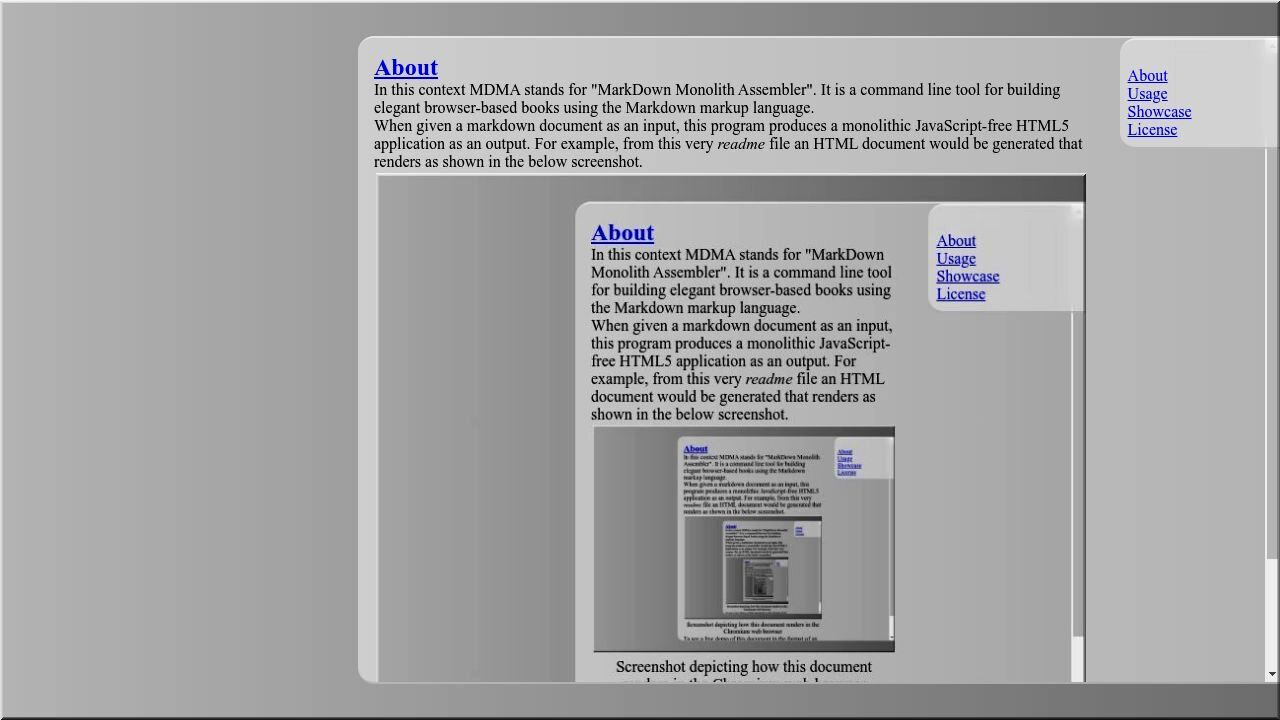
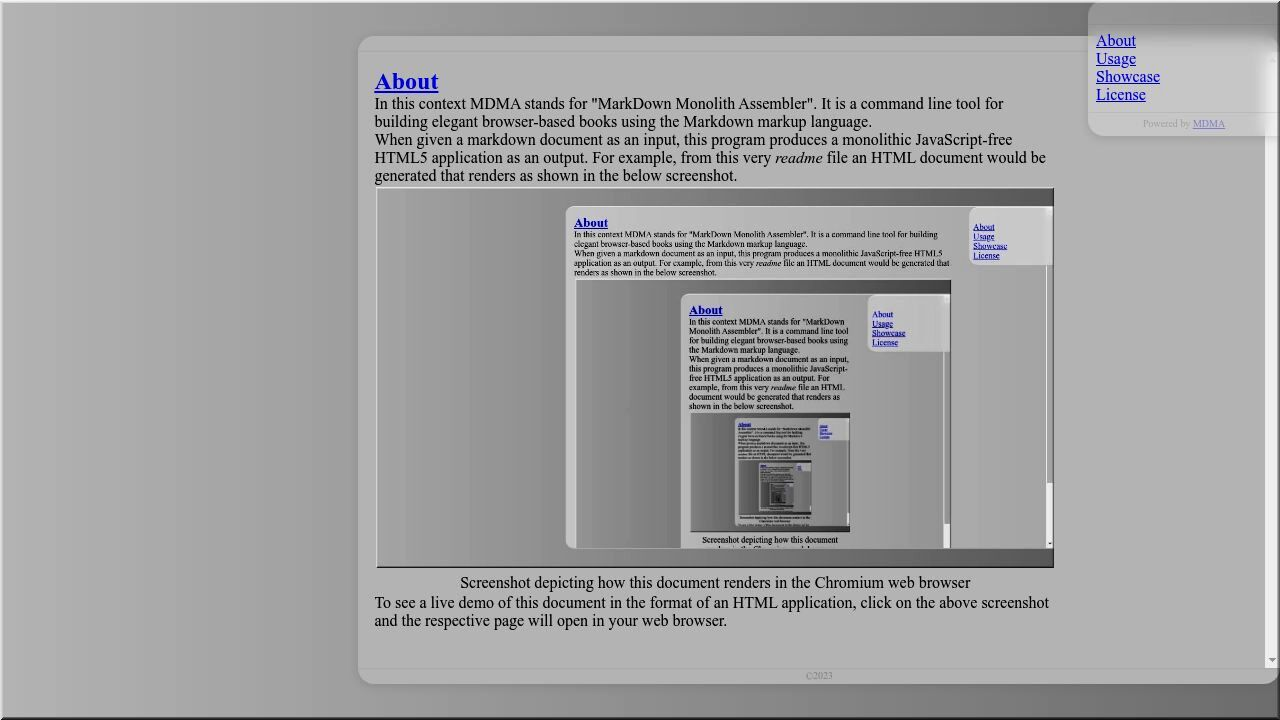
Improved formatting of the default framework. Updated the showcase and the screenshot.

Changed region(s): [[0.2812, 0.0, 1.0, 0.9472], [0.8125, 0.8861, 0.875, 0.9472], [0.9688, 0.9167, 1.0, 0.9472]]

diff --git a/framework.html b/framework.html
@@ -22,8 +22,17 @@
                 200vh - var(--content-padding) - 100vw
             ), 100vh
         );
-        --menu-width: 10rem;
+        --menu-width: 12rem;
         --menu-burger-width: 2rem;
+        --menu-burger-height: 1.5rem;
+        --menu-header-height: var(--menu-burger-height);
+        --menu-footer-height: var(--menu-header-height);
+        --menu-agenda-max-height: calc(
+            100vh - var(--menu-header-height) - var(--menu-footer-height)
+        );
+        --menu-transition-speed: 0.2s;
+        --md-page-max-width: 980px;
+        --border-radius: 1rem;
     }
 
     *, ::before, ::after {
@@ -36,6 +45,7 @@
         height:100%;
         width:100%;
         overflow: hidden;
+        white-space: nowrap;
     }
 
     .container {
@@ -44,7 +54,6 @@
         background-size: cover;
         background-position: center center;
         text-align: right;
-        white-space: nowrap;
         display: grid;
         place-items: center end;
     }
@@ -55,7 +64,7 @@
         left: 0;
         width: var(--MDMA-PAGE-LOADED);
         height: max(0.5vh, 2px);
-        background-color: rgba(0,255,0,0.5);
+        background-color: rgba(20,109,148,0.5);
         opacity: var(--MDMA-LOADER-OPACITY);
         pointer-events: none;
         transition: opacity 0.5s ease, width 0.25s ease;
@@ -65,8 +74,8 @@
     .content {
         position: relative;
         display: inline-block;
-        overflow: hidden;
-        width: var(--content-width);
+        overflow: visible;
+        width: 100%;
         height: var(--content-height);
         vertical-align: middle;
     }
@@ -91,28 +100,58 @@
         display: inline-block;
         top: 0;
         left: 0;
+        width: 100vw;
+        height: 100vh;
+    }
+
+    .md-page {
+        position: absolute;
+        top: 0;
+        left: calc(100% - var(--content-width));
         width: var(--content-width);
-        height: var(--content-height);
+        height: 100%;
+        max-width: var(--md-page-max-width);
+        border-radius: var(--border-radius);
+        pointer-events: none;
+        box-shadow: rgba(99, 99, 99, 0.2) 0px 2px 8px 0px;
+        overflow: hidden;
+        background-color: silver;
+    }
+
+    .md-page > div:first-child {
+        position: absolute;
+        top: var(--border-radius);
+        left: 0;
+        right: 0;
+        bottom: var(--border-radius);
+        box-shadow: rgba(99, 99, 99, 0.1) 0px 0px 1px 1px;
+    }
+
+    .md-page > div:nth-child(2) {
+        position: absolute;
+        left: 0;
+        right: 0;
+        bottom: 0;
+        height: var(--border-radius);
+        line-height: var(--border-radius);
+        text-align: center;
+        font-size: x-small;
+        color: rgba(99, 99, 99, 0.5);
     }
 
     #MDMA-CONTENT {
         position: absolute;
-        top: 0;
+        top: var(--border-radius);
         left: 0;
         right: 0;
-        bottom: 0;
+        bottom: var(--border-radius);
         width: 100%;
-        height: 100%;
         text-align: left;
-        scroll-behavior: smooth;
         overflow-y: scroll;
         overflow-x: hidden;
         z-index: 0;
-        background: rgba(255, 255, 255, 0.5);
-        border-top-left-radius: 1rem;
-        border-bottom-left-radius: 1rem;
-        border-top: 0.125rem outset rgba(255, 255, 255, 0.5);
-        border-bottom: 0.125rem outset rgba(255, 255, 255, 0.5);
+        background-color: transparent;
+        padding-left: calc(100% - var(--content-width));
     }
 
     #burger {
@@ -135,35 +174,77 @@
         z-index: 1;
         pointer-events: none;
         overflow: visible;
-        transition: width 0.1s linear;
+        transition: width var(--menu-transition-speed) linear;
     }
 
     .options {
         position: absolute;
-        top: 0.125rem;
+        top: 0;
         right: 0;
         width: 100%;
         text-align: left;
         pointer-events: auto;
-        overflow-y: auto;
-        overflow-x: hidden;
-        max-height: calc(100% - 0.25rem);
-        background: rgba(255, 255, 255, 0.4);
+        overflow: hidden;
+        max-height: 100%;
+        background-color: transparent;
+        box-shadow: rgba(99, 99, 99, 0.2) 0px 2px 8px 0px;
         backdrop-filter: blur(8px);
-        border-top-left-radius: 1rem;
-        border-bottom-left-radius: 1rem;
-        border-top: 0.125rem outset rgba(255, 255, 255, 0.5);
-        border-bottom: 0.125rem outset rgba(255, 255, 255, 0.5);
+        border-top-left-radius: var(--border-radius);
+        border-bottom-left-radius: var(--border-radius);
+    }
+
+    .options-bg {
+        position: absolute;
+        top: 0;
+        left: 0;
+        right: 0;
+        bottom: 0;
+        background-color: white;
+        z-index: -1;
+        opacity: 0.25;
+    }
+
+    .menu-header, .menu-footer {
+        height: var(--menu-header-height);
+        line-height: var(--menu-header-height);
+    }
+
+    .menu-footer {
+        height: var(--menu-footer-height);
+        line-height: var(--menu-footer-height);
+        font-size: x-small;
+        text-align: center;
+        width: var(--menu-width);
+        color: rgba(99, 99, 99, 0.3);
+    }
+
+    .menu-footer a {
+        opacity: 0.3;
+    }
+
+    .menu-header, .menu-footer {
+        overflow: hidden;
+        box-shadow: rgba(99, 99, 99, 0.1) 0px 0.5px 1px 0px;
+    }
+
+    #MDMA-AGENDA {
         padding: 0.5rem;
         padding-right: 0;
+        overflow-x: hidden;
+        overflow-y: auto;
+        max-height: var(--menu-agenda-max-height);
+        box-shadow: rgba(99, 99, 99, 0.1) 0px 0.5px 1px 0px;
     }
 
     #MDMA-AGENDA a {
-    display: block;
+        display: block;
+        text-overflow: ellipsis;
+        overflow: hidden;
     }
 
     #MDMA-AGENDA div > div {
         padding-left: 0.5rem;
+        transition: padding-left var(--menu-transition-speed) ease;
     }
 
     .MDMA-VIDEO-CONTAINER {
@@ -189,6 +270,7 @@
         padding: 1rem;
         padding-right: var(--menu-burger-width);
         white-space: normal;
+        max-width: var(--md-page-max-width);
     }
 
     .tab img {
@@ -205,7 +287,7 @@
         display: block;
     }
 
-    .menu > .options a + div {
+    #MDMA-AGENDA a + div {
         max-height: 100vh;
         transition: max-height 0.3s ease-in;
         overflow: hidden;
@@ -221,7 +303,7 @@
     label[for="burger"]::after {
         content: "✖";
         opacity: 0;
-        transition: opacity 0.1s linear;
+        transition: opacity var(--menu-transition-speed) linear;
     }
 
     @container (min-width: 1px) {
@@ -231,12 +313,16 @@
             cursor: pointer;
         }
 
-        :not(#burger:checked) + .menu > .options > label[for="burger"]::after {
+        :not(#burger:checked) + .menu label[for="burger"]::after {
             content: "☰";
         }
 
         :not(#burger:checked) + .menu{
             width: min(var(--menu-burger-width), var(--menu-width));
+        }
+
+        :not(#burger:checked) + .menu #MDMA-AGENDA div > div {
+            padding-left: 0rem;
         }
 
         .tab {
@@ -270,10 +356,19 @@
     <div id="MDMA-LOADER">
     </div>
 
-    <div class="container">
-      <div class="content">
-        <div id="width-guard">
-          <div>
+    <div id="width-guard">
+      <div>
+        <div class="container">
+          <div class="content">
+            <div class="md-page">
+              <div>
+              </div>
+
+              <div>
+                ©<span id="MDMA-YEAR">2023</span>
+              </div>
+            </div>
+
             <div id="MDMA-CONTENT">
               <article class="tab">
                 <h1>
@@ -465,6 +560,14 @@ Markdown dialect options:
                       manipulation
                     </p>
                   </li>
+
+                  <li>
+                    <p>
+                      <a href="https://curl.se/" target=
+                      "_blank">curl</a> — Command line tool and
+                      library for transferring data with URLs
+                    </p>
+                  </li>
                 </ul>
               </article>
 
@@ -519,29 +622,38 @@ Markdown dialect options:
                 </p>
               </article>
             </div>
-            <input id="burger" name="burger" type="checkbox" value=
-            "value">
-            <div class="menu">
-              <div class="options">
-                <label for="burger"></label>
-                <div id="MDMA-AGENDA">
-                  <div>
-                    <a href="#About" target=
-                    "_self">About</a><a href="#Usage" target=
-                    "_self">Usage</a>
-                    <div>
-                      <a href="#Synopsis" target=
-                      "_self">Synopsis</a><a href=
-                      "#Build-Instructions" target="_self">Build
-                      Instructions</a><a href="#Dependencies"
-                      target="_self">Dependencies</a>
-                    </div>
-                    <a href="#Showcase" target=
-                    "_self">Showcase</a><a href="#License" target=
-                    "_self">License</a>
-                  </div>
+          </div>
+        </div>
+        <input id="burger" name="burger" type="checkbox" value=
+        "value">
+        <div class="menu">
+          <div class="options">
+            <div class="options-bg">
+            </div>
+
+            <div class="menu-header">
+              <label for="burger"></label>
+            </div>
+
+            <div id="MDMA-AGENDA">
+              <div>
+                <a href="#About" target="_self">About</a><a href=
+                "#Usage" target="_self">Usage</a>
+                <div>
+                  <a href="#Synopsis" target=
+                  "_self">Synopsis</a><a href="#Build-Instructions"
+                  target="_self">Build Instructions</a><a href=
+                  "#Dependencies" target="_self">Dependencies</a>
                 </div>
+                <a href="#Showcase" target=
+                "_self">Showcase</a><a href="#License" target=
+                "_self">License</a>
               </div>
+            </div>
+
+            <div class="menu-footer">
+              Powered by <a href="https://github.com/1Hyena/mdma"
+              target="_blank">MDMA</a>
             </div>
           </div>
         </div>
